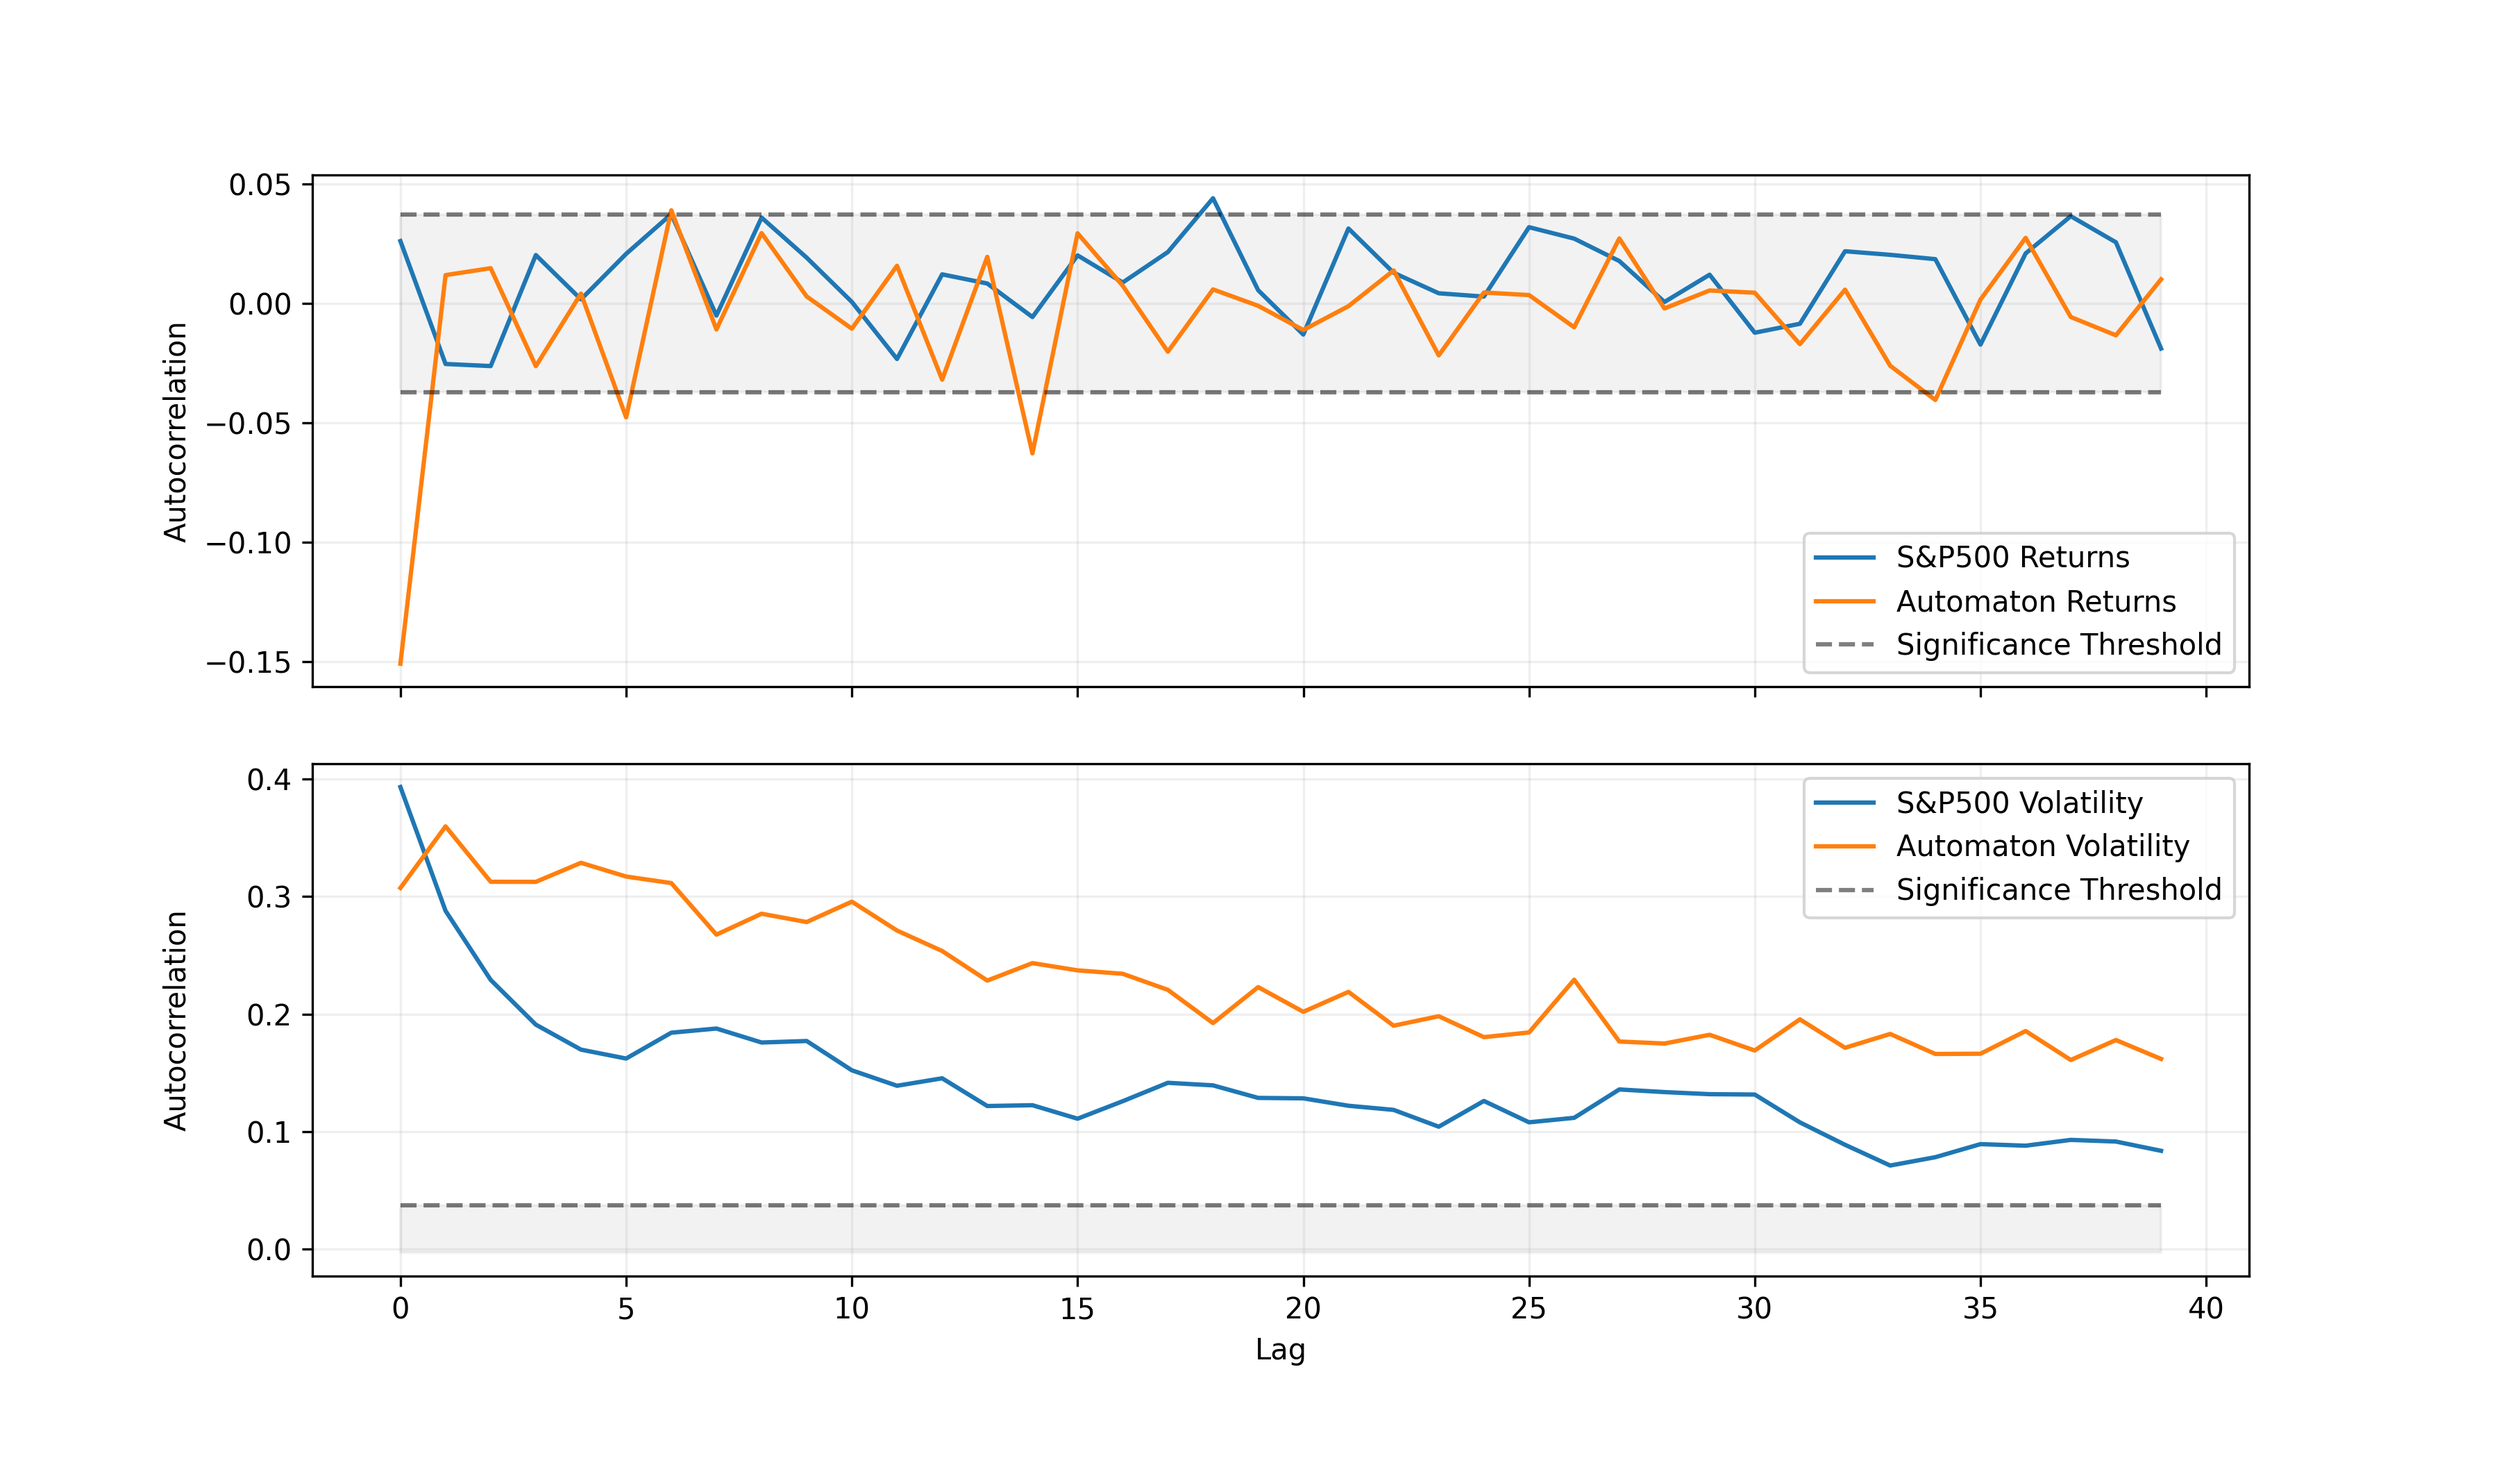
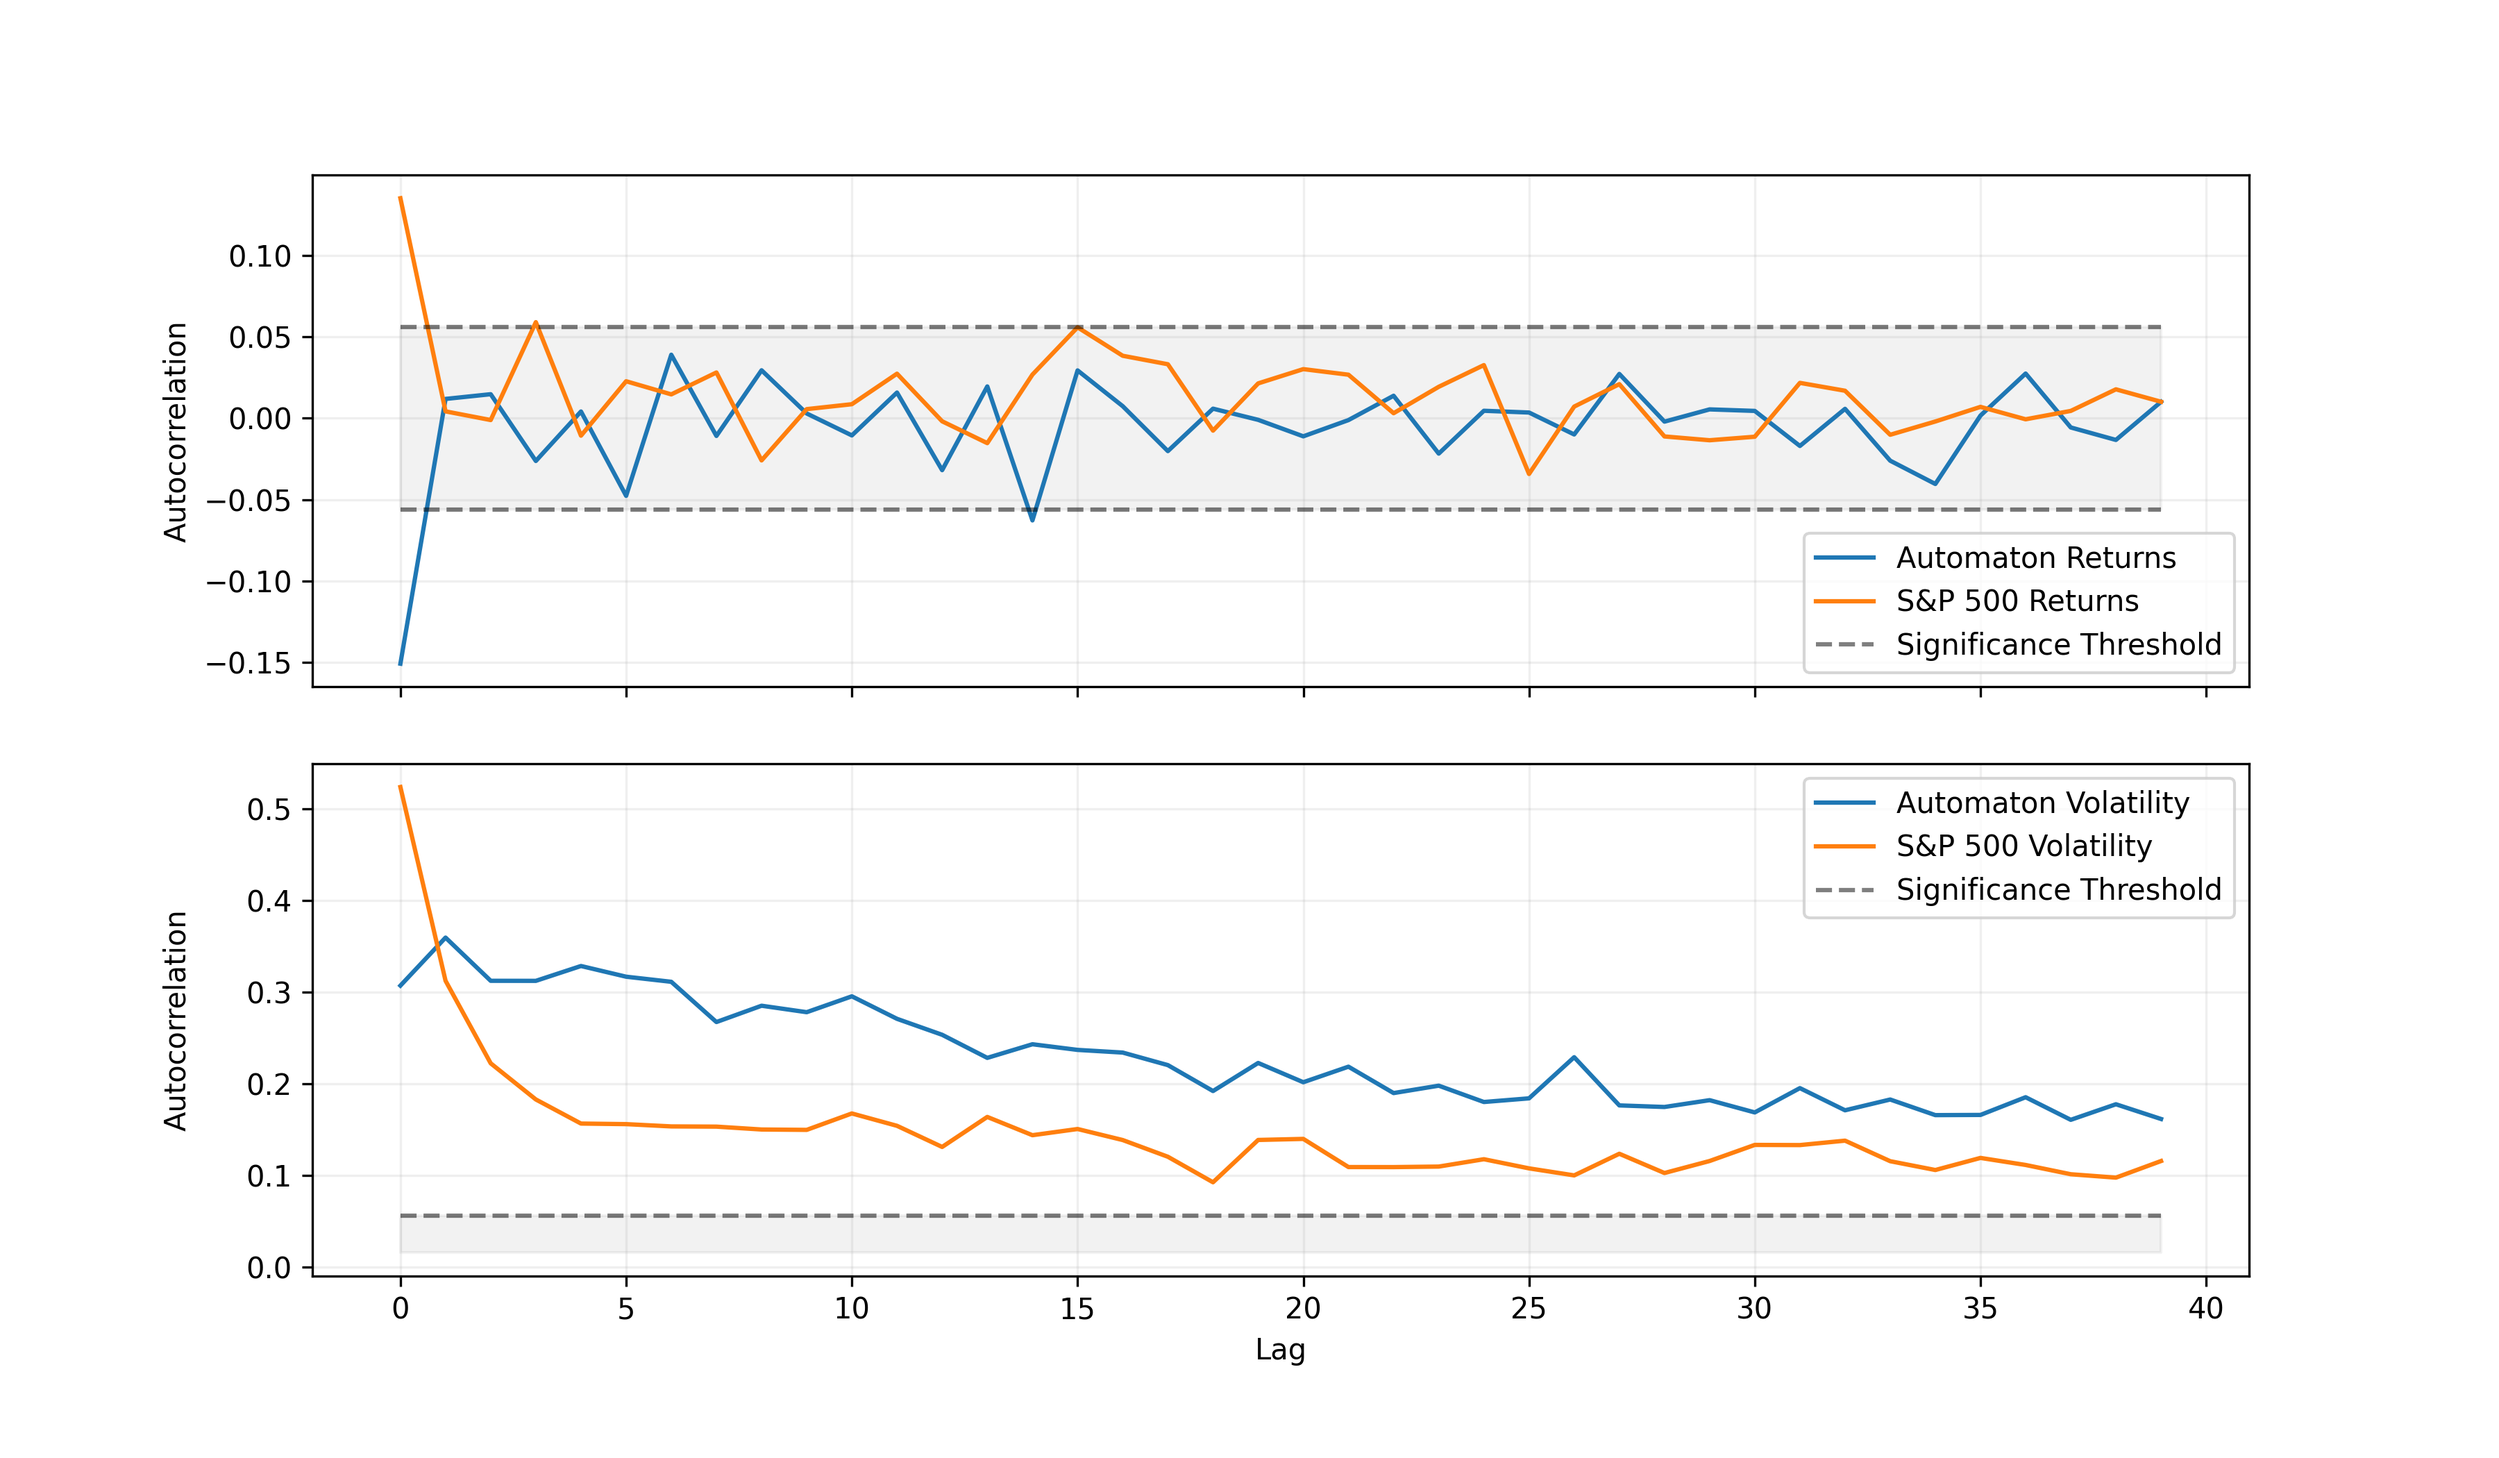
update before clean

diff --git a/code/james/pres_plots.py b/code/james/pres_plots.py
@@ -306,8 +306,8 @@ plt.show()
 fig, (ax1, ax2) = plt.subplots(
         ncols=1, nrows=2, figsize=(12,7), sharex=True, gridspec_kw = {'wspace':0, 'hspace':0.15})
         
-ax1.plot(x, acf_x, label="S&P500 Returns")
 ax1.plot(x, acf_sp, label="Automaton Returns")
+ax1.plot(x, acf_x,  label="S&P 500 Returns")
 ax1.plot(x, [threshold]*acf_x.shape[0], "--", color="black", alpha=0.5, label="Significance Threshold")
 ax1.plot(x, [-1 * threshold]*acf_x.shape[0], "--", color="black", alpha=0.5)
 ax1.fill_between(x, [threshold]*acf_x.shape[0], [-1 * threshold]*acf_x.shape[0], color="black", alpha=0.05) 
@@ -315,8 +315,8 @@ ax1.grid(alpha=0.2)
 ax1.set_ylabel(r"Autocorrelation")
 ax1.legend() 
 
-ax2.plot(x, acf_x_vol, color="C0", label="S&P500 Volatility")
 ax2.plot(x, acf_sp_vol, color="C1", label="Automaton Volatility")
+ax2.plot(x, acf_x_vol, color="C0", label="S&P 500 Volatility")
 ax2.plot(x, [threshold]*acf_x.shape[0], "--", color="black", alpha=0.5, label="Significance Threshold")
 ax2.fill_between(x, [threshold]*acf_x.shape[0], [threshold - 0.04]*acf_x.shape[0], color="black", alpha=0.05) 
 ##ax2.plot(x, [-1 * threshold]*acf_x.shape[0], "--", color="C2", alpha=0.4)

diff --git a/code/shared/wednesdaySPEED.py b/code/shared/wednesdaySPEED.py
@@ -47,7 +47,6 @@ def cluster_info(arr):
 def trunc(X, high, low):
     return min(high, max(X, low))
 
-@jit(nopython=True)
 def simulation(trigger = False, bound = False, pd = 0.05, pe = 0.01,
                ph = 0.0485, pa = 0.7, N0=2000, N1 = 100, A =4, a=1, h=1, 
                pi1 = 0.5, pi2 = 0.3, pi3 = 0.2, ub=1000, lb=20):
